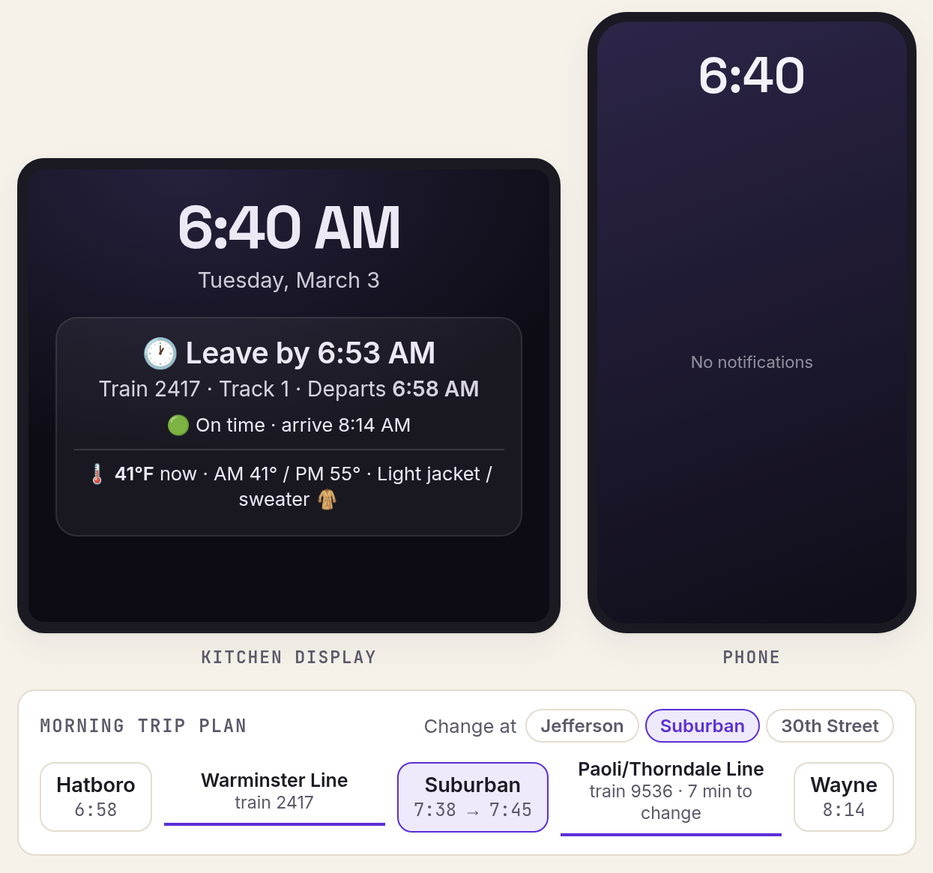
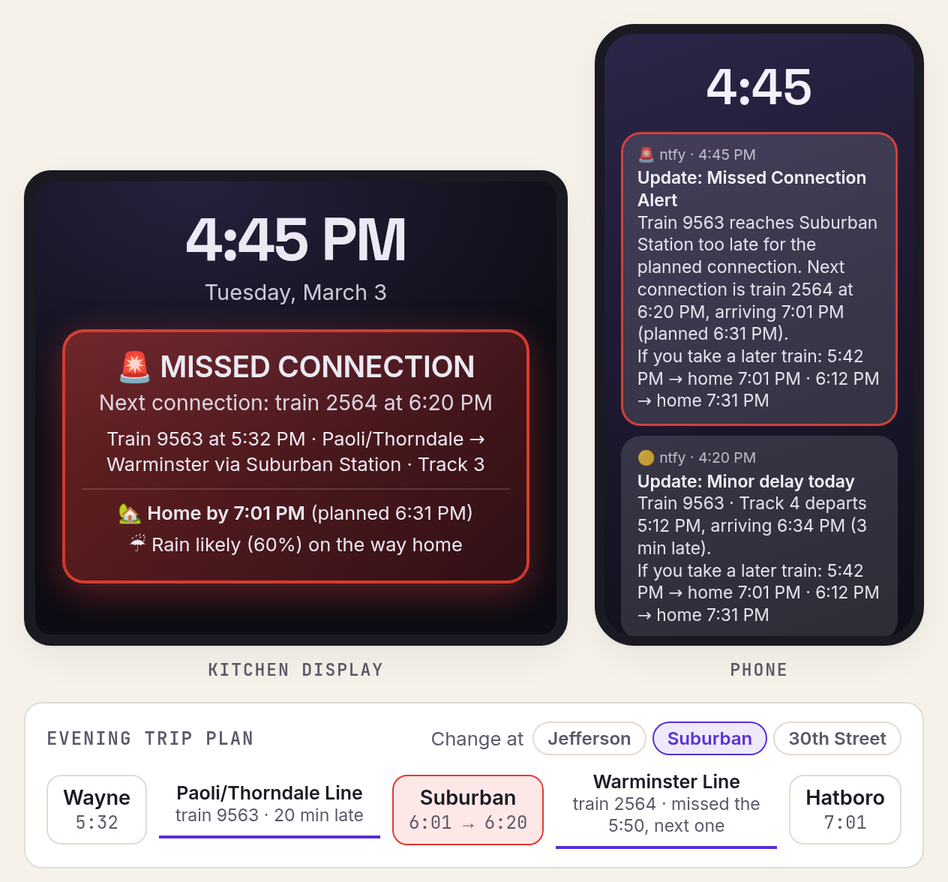
README: show a missed connection in the demo screenshot

diff --git a/README.md b/README.md
@@ -7,7 +7,7 @@ on weekday afternoons with the recommended train home.
 
 Built to be polled by Home Assistant for a wall-mounted dashboard.
 
-[![The kitchen display and trip plan from the interactive demo](docs/demo.png)](https://mferet.com/commute.html)
+[![The kitchen display, a follow-up push and the evening trip plan after a missed connection, from the interactive demo](docs/demo.png)](https://mferet.com/commute.html)
 
 *From the [interactive demo](https://mferet.com/commute.html), which walks through a weekday: late trains, a missed connection and the afternoon pushes. The stations are real SEPTA ones but not the actual rider's, and the train numbers and times are made up.*
 
